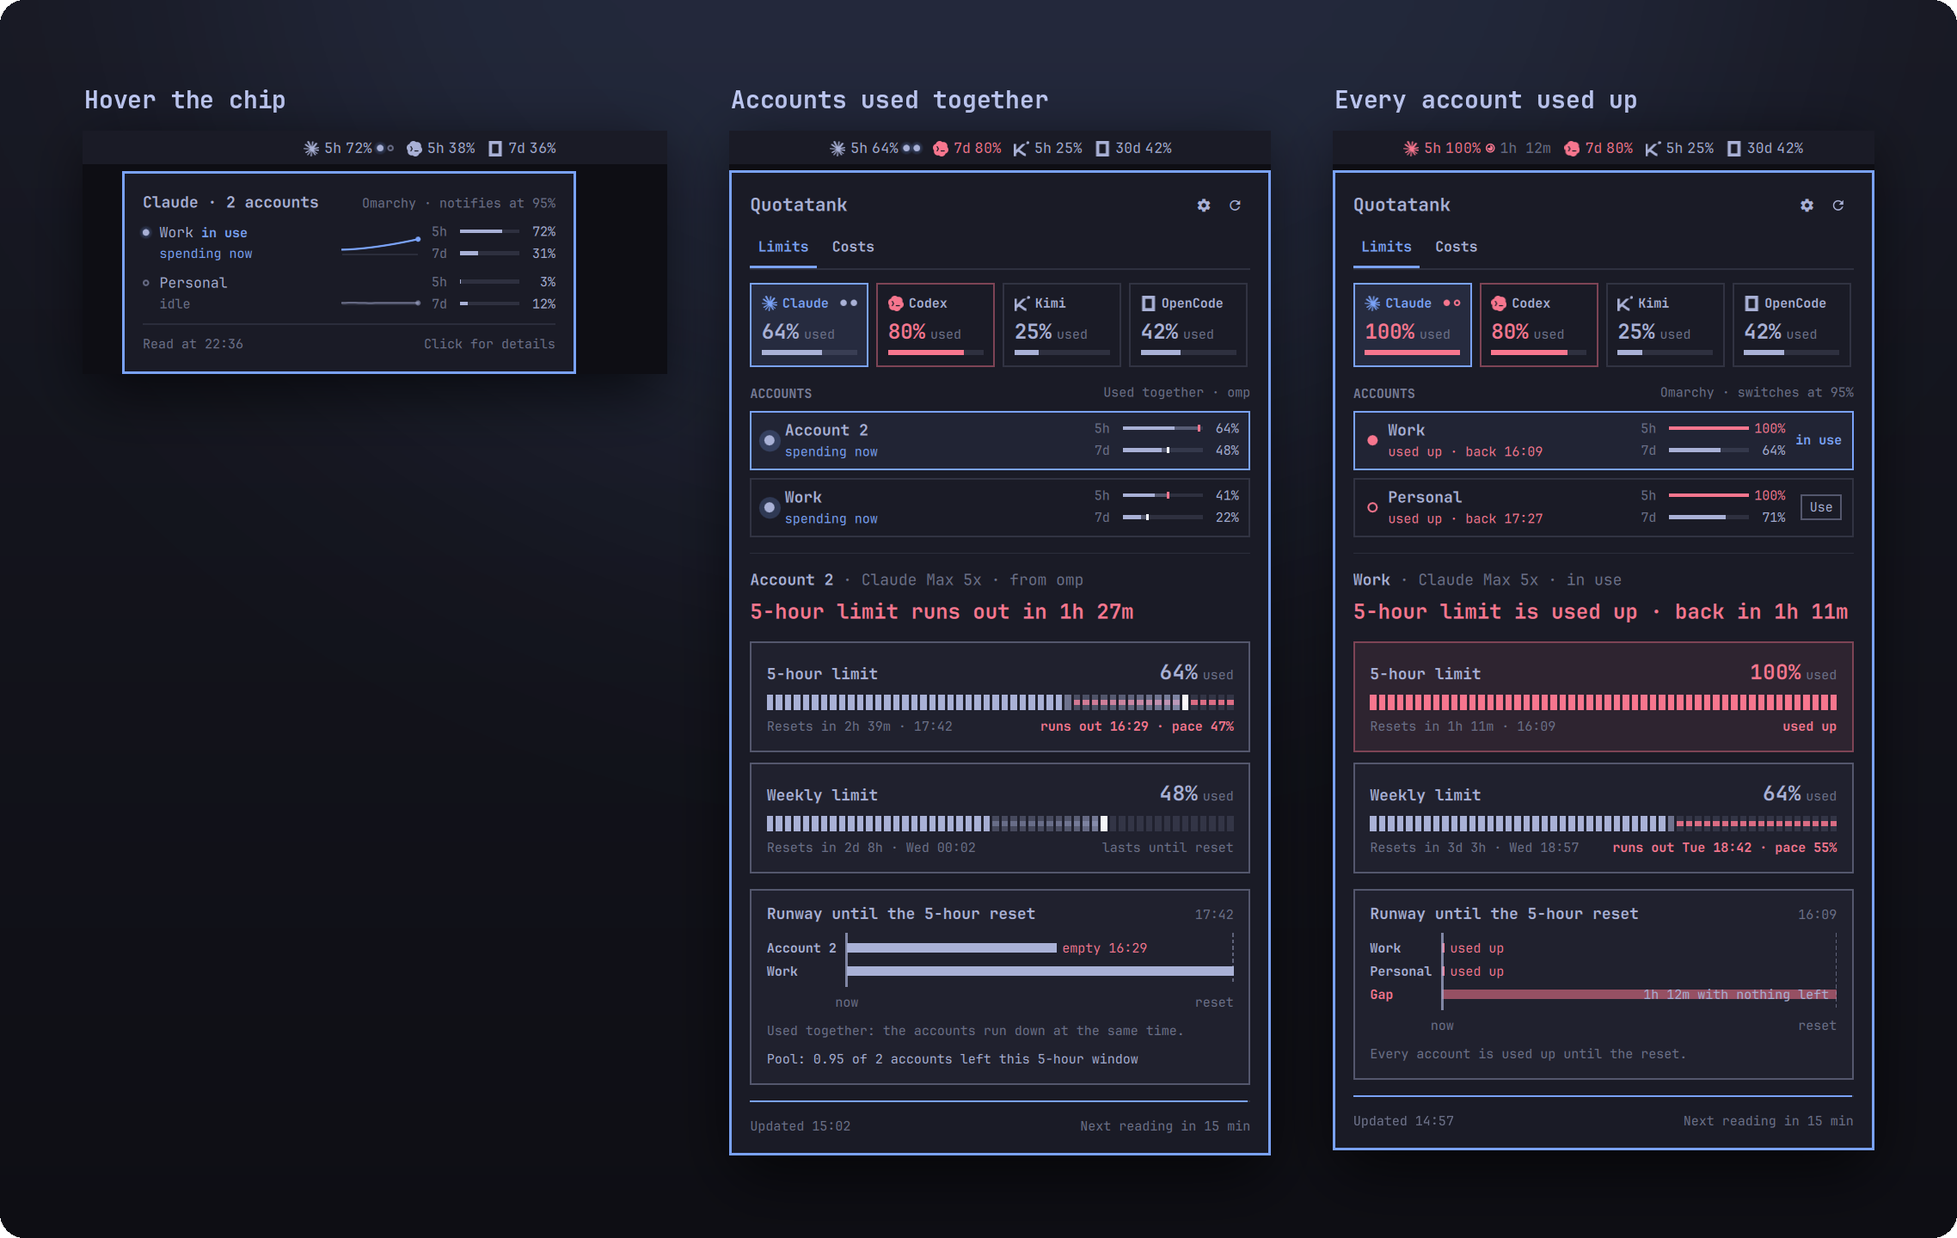
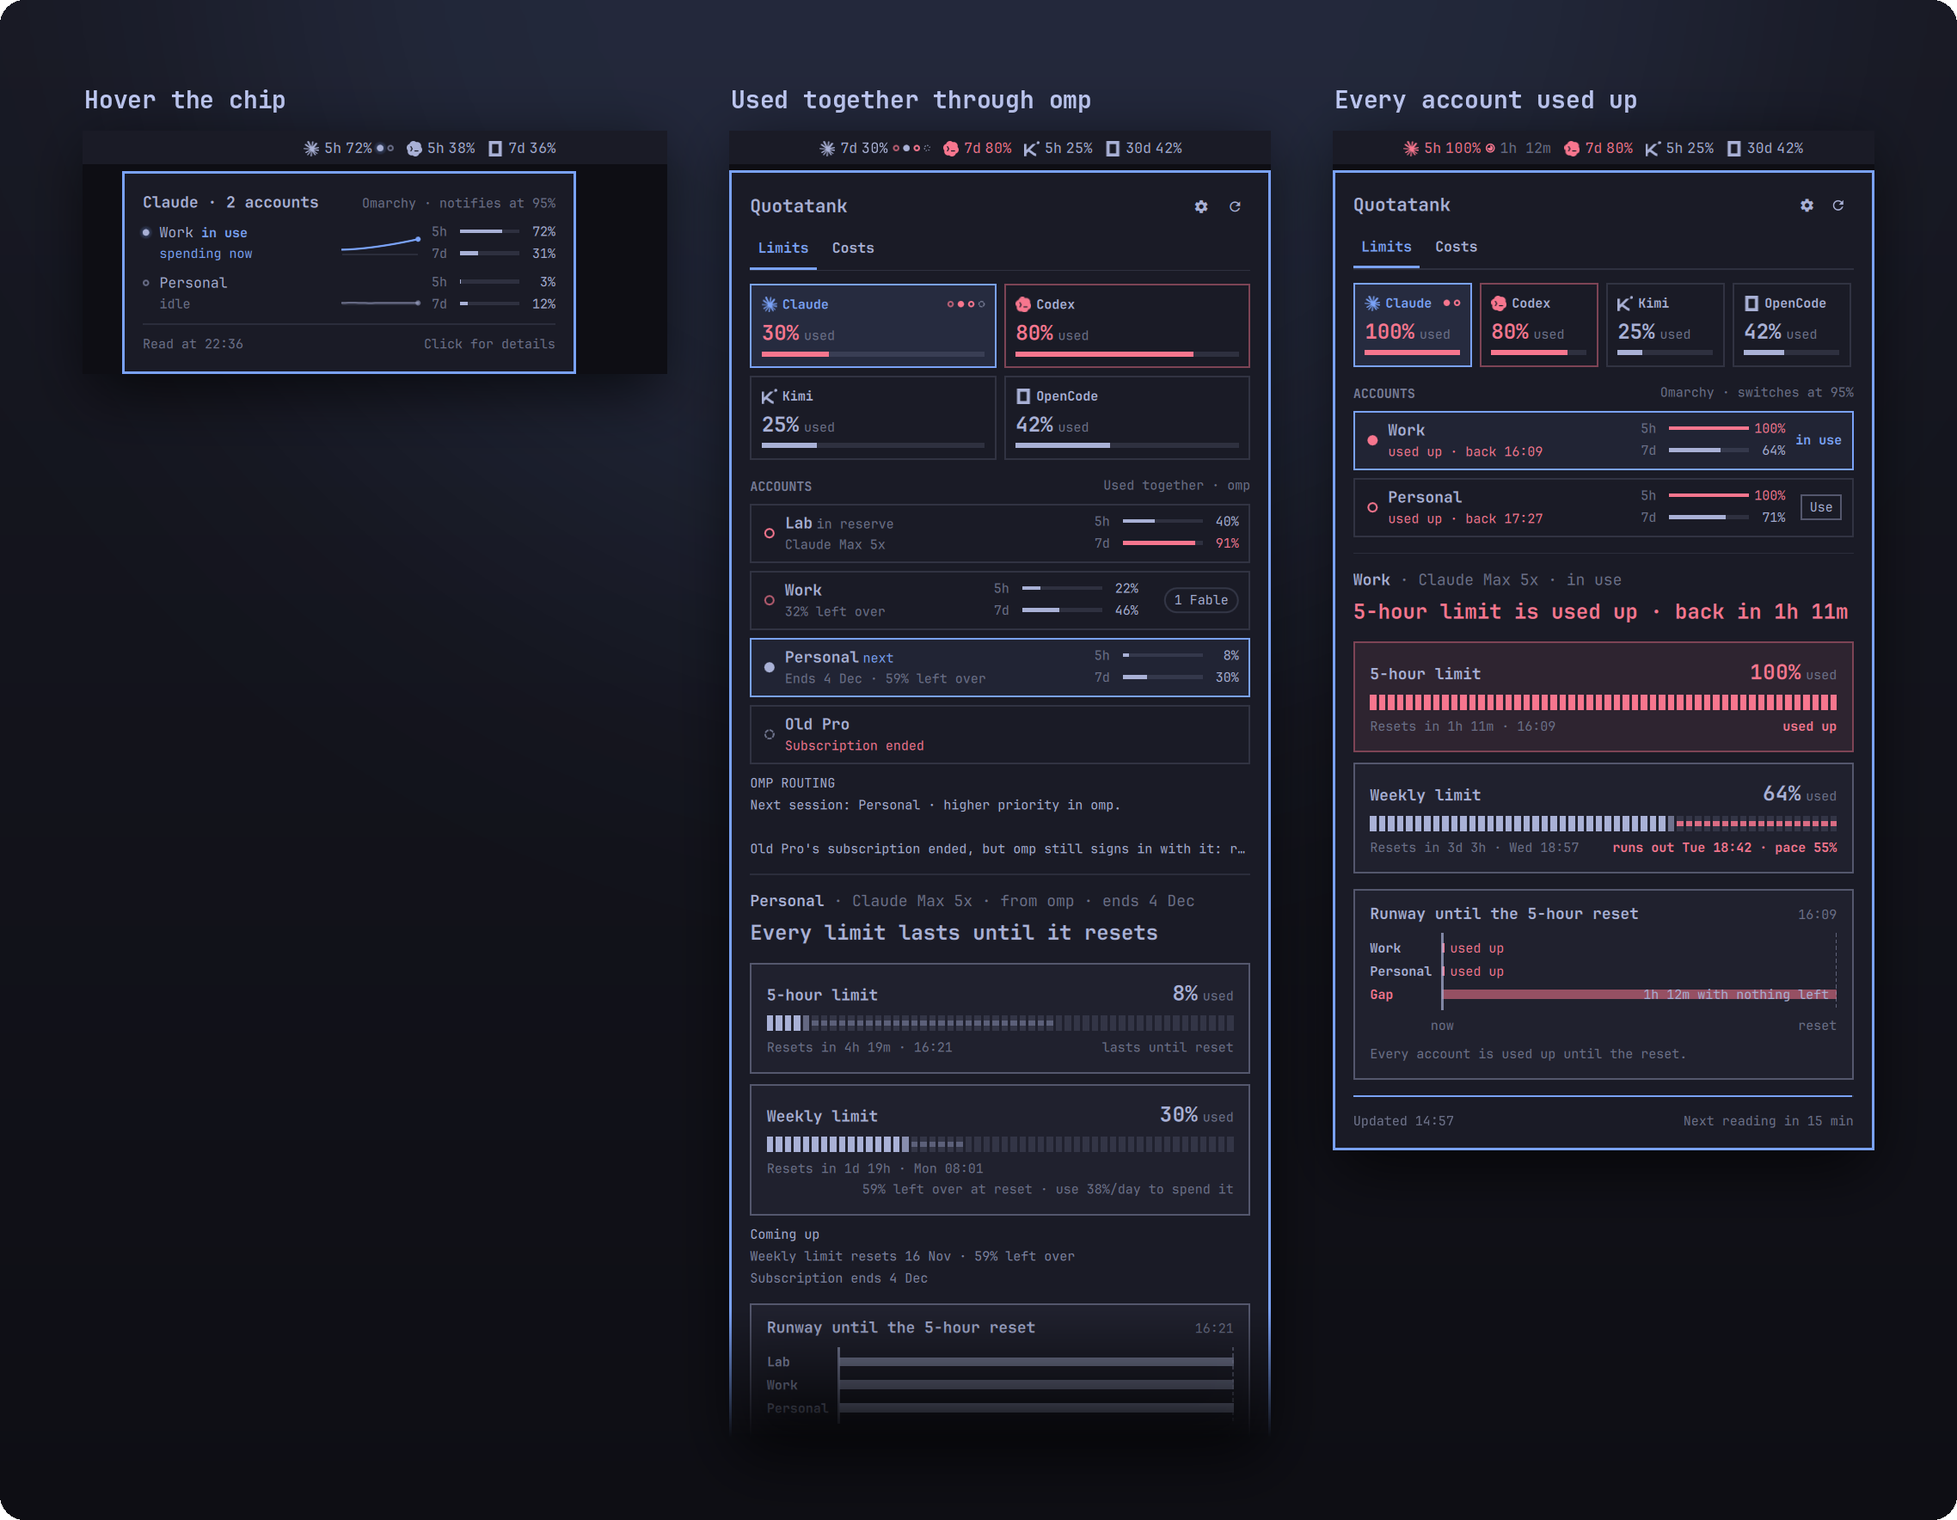
README: 3.2 images and the routing, badge and ranking docs
Images (mockup harness, made-up accounts):
- accounts.png: the middle view is now four Claude accounts used together
  through omp, idle, with next, in reserve, a banked Fable reset, an end date
  with its leftover, an ended account last, OMP ROUTING and Coming up.
- coming-up.png (new, under "Left over and coming up"): an account's detail
  with a leftover verdict, Coming up and the banked-reset card.
- menu-bar.png: a ninth strip, the pool chip.

Docs the 3.2.0 review found wrong:
- OMP ROUTING sits under the account rows, and its second warning is about
  an account ranked behind the next one that ends with a share left over.
- omp's ranking steps in their real order (drain decides last).
- The badge counts Codex's banked resets too; this computer's sign-in takes a
  custom name.
- The status line table lists the leftover verdicts.

diff --git a/README.md b/README.md
@@ -82,7 +82,7 @@ The built-in `omarchy.agents` widget can run alongside Quotatank. To keep only Q
 
 ## Several accounts at a glance
 
-![Three views: the hover card over the Claude chip listing Work in use and spending now and Personal idle, each with a trend and 5-hour and weekly meters; Limits with two accounts used together through omp, sorted by headroom, with a pool line under the runway; and Limits with every account used up, a clock in the chip, and a runway card with the gap until the reset](https://raw.githubusercontent.com/JanitorHead/omarchy-quotatank/main/docs/screenshots/accounts.png)
+![Three views: the hover card over the Claude chip listing Work in use and spending now and Personal idle, each with a trend and 5-hour and weekly meters; four Claude accounts used together through omp, with Lab in reserve, Work holding a banked Fable reset, Personal marked next with its end date and what it leaves over, the ended Old Pro last, OMP ROUTING naming the next session, and Personal's detail with what its weekly limit leaves over and what comes up; and Limits with every account used up, a clock in the chip, and a runway card with the gap until the reset](https://raw.githubusercontent.com/JanitorHead/omarchy-quotatank/main/docs/screenshots/accounts.png)
 
 Every source of a second account shows the same way:
 
@@ -102,9 +102,11 @@ In the menu bar, a dot per account sits beside the chip: filled for the account 
 
 Every limit card has a meter and a forecast: a dashed stretch after the fill shows where the current pace takes the limit before it resets, red when it runs out first. While the account spends, the block being filled breathes and a glow travels along the forecast, quicker as the pace presses on what is left; the last dash turns red as it lands when the limit runs out first. The fill itself only moves with a new reading. Hover the meter for the pace tick, where even use would be by now, and for the time a point is reached at this pace, or when it was passed. **Live figure** adds two decimals that climb at the current rate between readings. A 5-hour limit projects from its recent rate, newest samples weighing most; weekly and monthly limits blend this window's average with the last 24 hours, so one busy hour does not predict a weekly run-out. Hover a card's status line for how the tick and the projection work.
 
-**Banked resets.** When Anthropic grants Claude a limit reset (a launch reset, say), each account row with one you can spend now shows a badge that counts them (`1 Fable` when it clears only the Fable weekly limit). The badge dims while that limit is still healthy. Clicking it applies the reset where Quotatank can apply one today; otherwise its tooltip says where to apply it. A card under the limits counts every banked reset and lists those you can spend now and those that wait, with the limits each clears and when it expires (`1 reset usable now, for the weekly and Fable weekly limits, expires 10 Dec`, `2 resets later, for the Fable weekly limit, expire 9 Mar`); **Apply…** spends it after a confirmation, and when Claude holds it back, the card says why.
+**Banked resets.** When Anthropic grants Claude a limit reset (a launch reset, say), each account row with one you can spend now shows a badge that counts them (`1 Fable` when it clears only the Fable weekly limit); a Codex account with banked resets shows its count the same way. The badge dims while that limit is still healthy. Clicking it applies the reset where Quotatank can apply one today; otherwise its tooltip says where to apply it. A card under the limits counts every banked reset and lists those you can spend now and those that wait, with the limits each clears and when it expires (`1 reset usable now, for the weekly and Fable weekly limits, expires 10 Dec`, `2 resets later, for the Fable weekly limit, expire 9 Mar`); **Apply…** spends it after a confirmation, and when Claude holds it back, the card says why.
 
 **Left over and coming up.** A limit that resets in a day or more shows what it leaves over at reset. Its verdict reads `65% left over at reset · use 27%/day to spend it`. An account row shows the leftover alone (`65% left over`) in place of its plan when no subscription end is near, and joins it to a near end (`Ends 1 Jan · 65% left over`). The deadline is the reset, or the subscription's end when that comes first. Five-hour limits, balances and credits never show it, and it shows only when the current pace would leave at least 5 points unused. Below the limits, a Coming up list gives the account's next dates in order: a banked reset that expires, the next reset of a limit of a day or more with what it leaves over, and the subscription's end. Five-hour resets are left out, and an ended subscription lists nothing.
+
+![Work's detail: the weekly limit leaves 32% over at reset at 24% a day, the Fable weekly limit runs out first, Coming up lists the weekly reset with its leftover and a banked reset that expires 10 Dec, and the banked-reset card lists one reset usable now and two later, with Apply](https://raw.githubusercontent.com/JanitorHead/omarchy-quotatank/main/docs/screenshots/coming-up.png)
 
 <details>
 <summary>Every status line</summary>
@@ -113,6 +115,8 @@ Every limit card has a meter and a forecast: a dashed stretch after the fill sho
 |---|---|
 | `runs out 17:50 · pace 58%` | At the projected rate, the limit empties before the window resets |
 | `lasts until reset` | At the projected rate, the limit lasts until the window resets |
+| `32% left over at reset · use 24%/day to spend it` | A limit that resets in a day or more would leave this much unused at the current pace; the second part is the pace that spends it |
+| `45% left over at subscription end · use 18%/day to spend it` | The same, when the subscription ends before the limit resets |
 | `Idle 1h 2m · pace 40%` | A 5-hour limit has not risen for an hour, so no projection is made |
 | `Collecting data · pace 12%` | A 5-hour limit has less than ten minutes of samples so far |
 | `No recent data · pace 30%` | A 5-hour limit's newest sample is more than an hour old |
@@ -139,7 +143,7 @@ When something is wrong, the panel says what and what to do: a used-up limit nam
 
 ## Menu bar
 
-![The menu bar chip in eight states: two accounts with the one in use filled; spending now with a soft halo; near the limit with an arrow to Personal; every account used up with a clock to the reset; five accounts as three dots and a count; two accounts used together; an old reading faded with dashed rings; and one chip per account](https://raw.githubusercontent.com/JanitorHead/omarchy-quotatank/main/docs/screenshots/menu-bar.png)
+![The menu bar chip in nine states: two accounts with the one in use filled; spending now with a soft halo; near the limit with an arrow to Personal; every account used up with a clock to the reset; five accounts as three dots and a count; two accounts used together; one pool figure for every account; an old reading faded with dashed rings; and one chip per account](https://raw.githubusercontent.com/JanitorHead/omarchy-quotatank/main/docs/screenshots/menu-bar.png)
 
 - **Limit shown** picks the window every chip shows. The default is each provider's most constrained limit; 5-hour, 7-day, and monthly pin one window. Every line is tagged with its period (`7d 91%`); turn off **Show limit period** for narrower chips without the tag.
 - **Second limit below** stacks a second limit under the first; **Show when limits reset** appends when each line resets.
@@ -168,7 +172,7 @@ Local Claude Code, Codex, OpenCode, omp, and (when turned on) grok CLI history a
 
 If you work through [omp](https://github.com/can1357/oh-my-pi), Quotatank reads what omp knows, on this computer and on every other computer you added: it merges omp's accounts into the providers you already monitor and follows omp's sessions, so requests mark their account as spending and Costs gains projects and subagents. Nothing has to listen on a port: another computer is read over SSH.
 
-**OMP ROUTING** sits under the limits when omp runs accounts together. It names the account the next session starts on and why (`Next session: Work · first in omp's order.`), gives the share at which another account takes over when drain decides (`New sessions move to Work when Personal reaches about 65%.`), and shows one warning when an omp account's subscription has ended while omp still signs in with it, which is the ended-account warning for an account that still holds money. Until omp reports the next account itself (can1357/oh-my-pi#19144), Quotatank mirrors the ranking of oh-my-pi 18.18.8. A proxy pool or a provider without omp accounts shows no block.
+**OMP ROUTING** sits under the account rows when omp runs accounts together. It names the account the next session starts on and why (`Next session: Work · first in omp's order.`) and gives the share at which another account takes over when drain decides (`New sessions move to Work when Personal reaches about 65%.`). It warns about one thing at a time: an omp account whose subscription has ended while omp still signs in with it (remove it in omp), or else an account omp ranks behind the next one that ends with a share left over (`Personal ends 4 Dec with 59% left over: omp spends it only after Work. Raise its priority in omp (auth.accountPolicies).`). Until omp reports the next account itself (can1357/oh-my-pi#19144), Quotatank mirrors the ranking of oh-my-pi 18.18.8. A proxy pool or a provider without omp accounts shows no block.
 
 ## Balances, not just percentages
 

diff --git a/CHANGELOG.md b/CHANGELOG.md
@@ -8,7 +8,7 @@ All notable changes to this project will be documented here. The format follows
 
 ### Added
 
-- **Quotatank works out which omp account comes next.** In Used together · omp, Quotatank ranks the omp accounts the way oh-my-pi 18.18.8 does and finds the one it would use next. It skips accounts blocked, spent, or inside their reserve; it puts first the accounts in a Codex fresh-window boost and those that drain fastest; then hot accounts, lower-priority ones, and accounts with no reading. Ties keep the order the accounts are listed in. The reader also passes each omp account's policy through.
+- **Quotatank works out which omp account comes next.** In Used together · omp, Quotatank ranks the omp accounts the way oh-my-pi 18.18.8 does and finds the one it would use next. Accounts blocked, spent, or inside their reserve go last. Before the rest come, in this order: a Codex account in its fresh-window boost, an account that is not hot, the higher priority, an account with a reading, and then the one whose headroom drains fastest before its reset (weekly first, then 5-hour). Ties keep the order the accounts are listed in. The reader also passes each omp account's policy through.
 
 - **The chip counts omp's next account while idle.** In Used together · omp, when no account is spending, the menu bar chip counts the account omp would use next instead of the one with the least headroom, and its Limits row says `next` beside its name. Accounts that are not omp's (Omarchy logins, keys, proxies) are never the next account and get no tag.
 
@@ -16,7 +16,7 @@ All notable changes to this project will be documented here. The format follows
 
 - **Subscription end dates.** In Settings → Providers → Customize → Accounts shown, each account can take a **Subscription ends** date (`YYYY-MM-DD`), with or without other accounts. From the day after it, the account is an ended subscription; its row reads `Ends 3 Dec` from 30 days before (urgent within 7 days), and its detail reads `ends 3 Dec`. The year shows only when it is not the current year. The JSON export carries it as `subscriptionEnds`.
 
-- **Custom account names.** In Settings → Providers → Customize → Accounts shown, an omp, proxy or other-computer account can take a name of its own (up to 40 characters). The name replaces its email or `Account N` in rows, the chip hover card, notices, the runway, Settings and the JSON export; hidden emails stay hidden, and Omarchy logins and extra keys keep their own names. The names are kept in the new `accountNames` setting, keyed by provider and account id.
+- **Custom account names.** In Settings → Providers → Customize → Accounts shown, an omp, proxy or other-computer account, or this computer's own sign-in, can take a name of its own (up to 40 characters). The name replaces its email or `Account N` in rows, the chip hover card, notices, the runway, Settings and the JSON export; hidden emails stay hidden, and Omarchy logins and extra keys keep their own names. The names are kept in the new `accountNames` setting, keyed by provider and account id.
 
 - **Pool total.** In Settings → Providers → Customize, **Menu bar shows** can be set to **Pool** per provider: the chip then shows what is left of the window across the provider's shown accounts whose subscription has not ended, counting only accounts that carry that limit (an Ultra account without a 5-hour limit is left out). A stale reading counts; an account that fails with no reading is left out, and the tooltip says so (**Pool from 2 of 3 accounts**). The runway's pool line shows the same figure (`Pool: 55% left this week · 2 accounts`) in place of omp's capacity figures. The choice is kept in the new `barChipValues` setting.
 
@@ -24,13 +24,13 @@ All notable changes to this project will be documented here. The format follows
 
 - **Claude's own word on an ended plan.** When Claude's usage check is refused, Quotatank asks Claude's profile whether the free plan has ended, at most every six hours per Claude sign-in. A canceled paid plan is not shown as ended.
 
-- **A banked reset badge on every account row.** An account row with a reset Claude can spend now shows how many, as `1 Fable` when it clears only the Fable weekly limit, otherwise `1 reset` or `N resets`. The badge dims while the limit it clears still has more than the warning threshold left. Clicking it applies the reset only where Quotatank can apply one today; otherwise its tooltip says where to apply it. Its tooltip and the detail's banked-reset card list every reset, those usable now and those that wait, with the limits each clears and when it expires: `1 reset usable now, for the weekly and Fable weekly limits, expires 10 Dec` and `2 resets later, for the Fable weekly limit, expire 9 Mar`.
+- **A banked reset badge on every account row.** An account row with resets it can spend now shows how many: Claude's as `1 Fable` when it clears only the Fable weekly limit, otherwise `1 reset` or `N resets`, and a Codex account's banked resets the same way. The badge dims while the limit it clears still has more than the warning threshold left. Clicking it applies the reset only where Quotatank can apply one today; otherwise its tooltip says where to apply it. Its tooltip and the detail's banked-reset card list every reset, those usable now and those that wait, with the limits each clears and when it expires: `1 reset usable now, for the weekly and Fable weekly limits, expires 10 Dec` and `2 resets later, for the Fable weekly limit, expire 9 Mar`.
 
 - **Leftover on a limit that resets with room to spare.** Its verdict says what it leaves over at reset, with the pace that spends it: `65% left over at reset · use 27%/day to spend it`. Its account row shows it alone, `65% left over`, in place of the plan when no subscription end is near, or joins it to the end when one is: `Ends 1 Jan · 65% left over`. Only limits that reset in a day or more count, and the subscription's end replaces the reset when it comes first; 5-hour limits, balances and credits never show it, and it shows only when the current pace would leave at least 5 points unused.
 
 - **A Coming up list in the account detail.** Under the limits, the account lists its next dates in order: a banked reset that expires, the next reset of a limit of a day or more with what it leaves over, and the subscription's end. 5-hour resets are left out. An ended subscription lists nothing.
 
-- **OMP ROUTING shows omp's next account.** Under the limits, a block for omp accounts used together names the account the next session starts on and why, gives the share at which another account takes over when drain decides, and warns once about an omp account whose subscription has ended while omp still signs in with it, the leftover warning for an account that still holds money. It mirrors oh-my-pi 18.18.8's ranking until omp reports the next account itself, and shows nothing for a proxy pool or a provider without omp accounts.
+- **OMP ROUTING shows omp's next account.** Under the account rows, a block for omp accounts used together names the account the next session starts on and why, and gives the share at which another account takes over when drain decides. It warns about one thing at a time: an omp account whose subscription has ended while omp still signs in with it, or else an account ranked behind the next one that ends with a share left over, with the advice to raise its priority in omp (`auth.accountPolicies`). It mirrors oh-my-pi 18.18.8's ranking until omp reports the next account itself, and shows nothing for a proxy pool or a provider without omp accounts.
 
 ### Fixed
 
